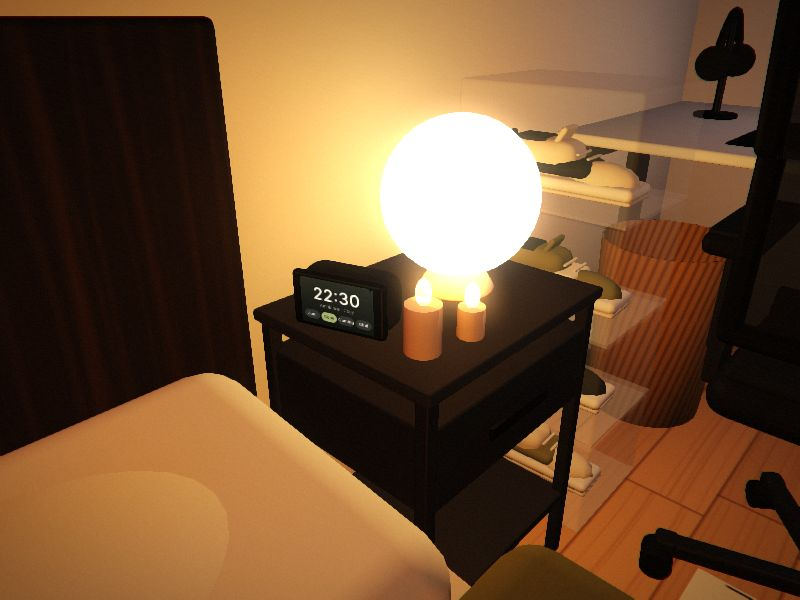
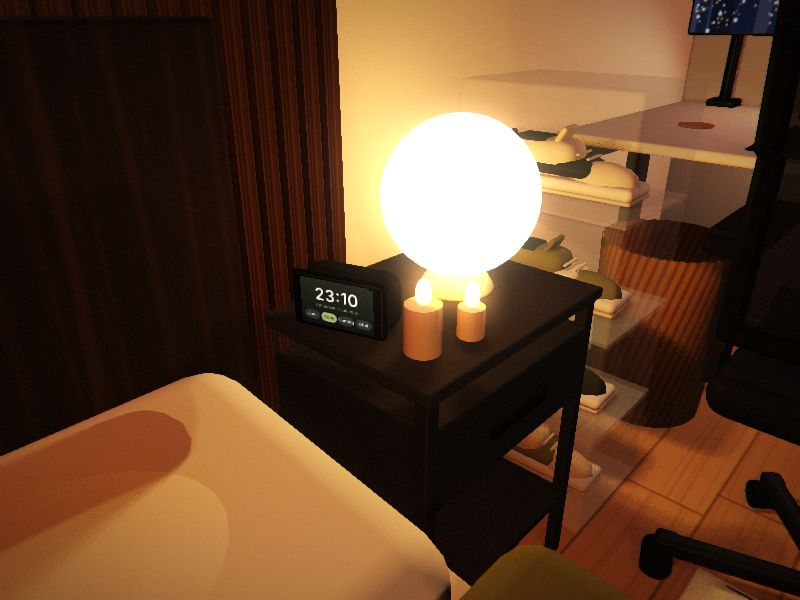
Séance 31 : l'écran de l'Echo Show affiche l'ambiance en cours (63,5 → 63,75/70)
Claude-Session: https://claude.ai/code/session_01SepMHyEogJJnegoMaCAg7f

diff --git a/index.html b/index.html
@@ -341,10 +341,14 @@ const frM=M(0x141414,{roughness:.35});[BC-58,BC,BC+58].forEach((zc,i)=>{RB(WX,WX
 // ---------- Echo Show 5 (3e gén.) sur la table de chevet : écran de contrôle des lumières ----------
 {const g=Grp(15,59,161,.3);const fab=M(0x2b2c2e,{roughness:.95}),gls=M(0x0b0b0c,{roughness:.15,metalness:.2});
  RB(-7.4,7.4,0,8.6,-3.6,2.4,2.4,fab,g,3);RB(-7.4,7.4,.2,8.6,2.2,3.7,.7,gls,g,2);
- const st=T(256,160,(c,w,h)=>{const gr=c.createLinearGradient(0,0,0,h);gr.addColorStop(0,'#20231b');gr.addColorStop(1,'#0d0e0b');c.fillStyle=gr;c.fillRect(0,0,w,h);
-  c.fillStyle='#F3EFE4';c.font='600 58px Inter, Arial, sans-serif';c.textAlign='center';c.fillText('22:30',w/2,72);c.font='16px Arial';c.fillStyle='#A9A594';c.fillText('Ambiance : Cosy',w/2,96);
-  const lab=['Jour','Cosy','Gaming','Ciné'];lab.forEach((t,i)=>{const x=10+i*61,on=i===1;c.fillStyle=on?'#A4AE6E':'rgba(255,255,255,.12)';c.beginPath();c.roundRect?c.roundRect(x,112,56,32,16):c.rect(x,112,56,32);c.fill();c.fillStyle=on?'#1b1d12':'#F3EFE4';c.font='600 15px Arial';c.fillText(t,x+28,133)})},1,1);
- const sm=new THREE.Mesh(new THREE.PlaneGeometry(11.6,7),MB(0xffffff,{map:st}));sm.position.set(0,4.5,3.75);g.add(sm);
+ // écran de l'Echo Show : heure + ambiance en cours (mis à jour par R.echoSet depuis les pages)
+ const EC={cosy:['23:10','Nuit cosy',1],jour:['14:20','Jour',0],coucher:['18:40','Coucher de soleil',0],soir:['21:30','Soir chaud',1],gaming:['22:00','Gaming',2],fete:['23:45','Fête',-1],cine:['21:00','Ciné',3]};
+ const drawEcho=(c,w,h,k)=>{const e=EC[k]||EC.cosy;const gr=c.createLinearGradient(0,0,0,h);gr.addColorStop(0,'#20231b');gr.addColorStop(1,'#0d0e0b');c.fillStyle=gr;c.fillRect(0,0,w,h);
+  c.fillStyle='#F3EFE4';c.font='600 58px Inter, Arial, sans-serif';c.textAlign='center';c.fillText(e[0],w/2,72);c.font='16px Arial';c.fillStyle='#A9A594';c.fillText('Ambiance : '+e[1],w/2,96);
+  ['Jour','Cosy','Gaming','Ciné'].forEach((t,i)=>{const x=10+i*61,on=i===e[2];c.fillStyle=on?'#A4AE6E':'rgba(255,255,255,.12)';c.beginPath();c.roundRect?c.roundRect(x,112,56,32,16):c.rect(x,112,56,32);c.fill();c.fillStyle=on?'#1b1d12':'#F3EFE4';c.font='600 15px Arial';c.fillText(t,x+28,133)})};
+ const st=T(256,160,(c,w,h)=>drawEcho(c,w,h,'cosy'),1,1);st.ver=st.ver||1;
+ R.echoSet=k=>{const cv=st.image;if(!cv||!cv.getContext)return;drawEcho(cv.getContext('2d'),cv.width,cv.height,k);st.ver=(st.ver||1)+1;st.needsUpdate=true};
+ const sm=new THREE.Mesh(new THREE.PlaneGeometry(11.6,7),MB(0xffffff,{map:st}));R.echoScreen=sm;sm.position.set(0,4.5,3.75);g.add(sm);
  const cam=S(5.4,7.9,3.72,.22,M(0x050505,{roughness:.1}),1,1,.4,g,8)}
 
 // ---------- sneaker wall: clear boxes + 3 floating shelves with Tapo L900-5 LED ----------
@@ -1035,13 +1039,13 @@ let mesOn=false;const MES=(window.MESURES||[]).map(m=>{const[a,b,c,d,e,f,n]=m;co
 function setMes(v){mesOn=v;MES.forEach(m=>{m.bar.visible=v;m.lab.visible=v})}
 window.__setMes=setMes;
 const dyn=new Set([...MES.map(m=>m.bar),...MES.map(m=>m.lab),vig,R.platter,R.label,labMesh,infMesh,...selE,menuMesh,...rays,...dots,...arcDots,ring,...ctrlParts,...R.shafts,...R.dust]);
-[...Object.values(R.G).flat().map(m=>m.material),...(R.strips||[]).map(o=>o.m.material),...Object.values(R.ambiPads).map(m=>m.material),R.screens.tv.material,R.screens.mon.material,...R.flames.map(m=>m.material),...R.cityLit.map(m=>m.material),...R.out.map(m=>m.material),
+[...Object.values(R.G).flat().map(m=>m.material),...(R.echoScreen?[R.echoScreen.material]:[]),...(R.strips||[]).map(o=>o.m.material),...Object.values(R.ambiPads).map(m=>m.material),R.screens.tv.material,R.screens.mon.material,...R.flames.map(m=>m.material),...R.cityLit.map(m=>m.material),...R.out.map(m=>m.material),
  R.sky.material,R.skyN.material,R.moon.material,R.moonHalo.material,R.tree.material,R.tree2.material,R.pend,R.arcBulb,R.nsShade,R.fado,R.dlBulb,...R.pcFans.map(m=>m.material),R.pcIn.material,R.ceil.material].forEach(m=>dyn.add(m));
 [R.sky,R.skyN,R.moon,R.moonHalo,R.tree,R.tree2,R.ceil].forEach(o=>dyn.add(o));
 const V=makeVRRenderer(gl,sc,dyn);const ambiUp=makeAmbi(R,THREE);window.__V=V;
 const MODES=[['cosy','Nuit cosy',()=>COSY],['jour','Jour',()=>DAY],['coucher','Coucher de soleil',()=>GOLD],['soir','Soir chaud',()=>EVE],['gaming','Gaming néon',()=>GAME],['fete','Fête',t=>FETE(t)],['cine','Ciné Ambilight',()=>CINE]];
 let mi=0,from=COSY,blendT=1,cur=COSY,el=0;
-function setMode(i,show){mi=(i+MODES.length)%MODES.length;if(typeof menu!=='undefined'&&menu.open){menu.draw();show=false}from=cur;blendT=0;document.querySelectorAll('[data-m]').forEach(b=>b.classList.toggle('on',+b.dataset.m===mi));if(show)setLabel(MODES[mi][1],'A : ambiance suivante · B : précédente')}
+function setMode(i,show){mi=(i+MODES.length)%MODES.length;if(R.echoSet)R.echoSet(MODES[mi][0]);if(typeof menu!=='undefined'&&menu.open){menu.draw();show=false}from=cur;blendT=0;document.querySelectorAll('[data-m]').forEach(b=>b.classList.toggle('on',+b.dataset.m===mi));if(show)setLabel(MODES[mi][1],'A : ambiance suivante · B : précédente')}
 document.querySelectorAll('[data-m]').forEach(b=>b.onclick=()=>{if(auto)setAuto(false);setMode(+b.dataset.m,false)});
 let auto=false,autoT=0;function setAuto(on){auto=on;autoT=0;const b=document.getElementById('auto');if(b){b.classList.toggle('on',on);b.textContent=on?'Arrêter le défilé':'Défilé de toutes les ambiances'}if(!menu.open)setLabel(on?'Défilé auto activé':'Défilé auto arrêté',on?'Une nouvelle ambiance toutes les 7 s':'Gâchette gauche : relancer');else menu.draw()}
 document.getElementById('auto').onclick=()=>setAuto(!auto);

diff --git a/source/app_vr.js b/source/app_vr.js
@@ -140,13 +140,13 @@ let mesOn=false;const MES=(window.MESURES||[]).map(m=>{const[a,b,c,d,e,f,n]=m;co
 function setMes(v){mesOn=v;MES.forEach(m=>{m.bar.visible=v;m.lab.visible=v})}
 window.__setMes=setMes;
 const dyn=new Set([...MES.map(m=>m.bar),...MES.map(m=>m.lab),vig,R.platter,R.label,labMesh,infMesh,...selE,menuMesh,...rays,...dots,...arcDots,ring,...ctrlParts,...R.shafts,...R.dust]);
-[...Object.values(R.G).flat().map(m=>m.material),...(R.strips||[]).map(o=>o.m.material),...Object.values(R.ambiPads).map(m=>m.material),R.screens.tv.material,R.screens.mon.material,...R.flames.map(m=>m.material),...R.cityLit.map(m=>m.material),...R.out.map(m=>m.material),
+[...Object.values(R.G).flat().map(m=>m.material),...(R.echoScreen?[R.echoScreen.material]:[]),...(R.strips||[]).map(o=>o.m.material),...Object.values(R.ambiPads).map(m=>m.material),R.screens.tv.material,R.screens.mon.material,...R.flames.map(m=>m.material),...R.cityLit.map(m=>m.material),...R.out.map(m=>m.material),
  R.sky.material,R.skyN.material,R.moon.material,R.moonHalo.material,R.tree.material,R.tree2.material,R.pend,R.arcBulb,R.nsShade,R.fado,R.dlBulb,...R.pcFans.map(m=>m.material),R.pcIn.material,R.ceil.material].forEach(m=>dyn.add(m));
 [R.sky,R.skyN,R.moon,R.moonHalo,R.tree,R.tree2,R.ceil].forEach(o=>dyn.add(o));
 const V=makeVRRenderer(gl,sc,dyn);const ambiUp=makeAmbi(R,THREE);window.__V=V;
 const MODES=[['cosy','Nuit cosy',()=>COSY],['jour','Jour',()=>DAY],['coucher','Coucher de soleil',()=>GOLD],['soir','Soir chaud',()=>EVE],['gaming','Gaming néon',()=>GAME],['fete','Fête',t=>FETE(t)],['cine','Ciné Ambilight',()=>CINE]];
 let mi=0,from=COSY,blendT=1,cur=COSY,el=0;
-function setMode(i,show){mi=(i+MODES.length)%MODES.length;if(typeof menu!=='undefined'&&menu.open){menu.draw();show=false}from=cur;blendT=0;document.querySelectorAll('[data-m]').forEach(b=>b.classList.toggle('on',+b.dataset.m===mi));if(show)setLabel(MODES[mi][1],'A : ambiance suivante · B : précédente')}
+function setMode(i,show){mi=(i+MODES.length)%MODES.length;if(R.echoSet)R.echoSet(MODES[mi][0]);if(typeof menu!=='undefined'&&menu.open){menu.draw();show=false}from=cur;blendT=0;document.querySelectorAll('[data-m]').forEach(b=>b.classList.toggle('on',+b.dataset.m===mi));if(show)setLabel(MODES[mi][1],'A : ambiance suivante · B : précédente')}
 document.querySelectorAll('[data-m]').forEach(b=>b.onclick=()=>{if(auto)setAuto(false);setMode(+b.dataset.m,false)});
 let auto=false,autoT=0;function setAuto(on){auto=on;autoT=0;const b=document.getElementById('auto');if(b){b.classList.toggle('on',on);b.textContent=on?'Arrêter le défilé':'Défilé de toutes les ambiances'}if(!menu.open)setLabel(on?'Défilé auto activé':'Défilé auto arrêté',on?'Une nouvelle ambiance toutes les 7 s':'Gâchette gauche : relancer');else menu.draw()}
 document.getElementById('auto').onclick=()=>setAuto(!auto);

diff --git a/source/room.js b/source/room.js
@@ -177,10 +177,14 @@ const frM=M(0x141414,{roughness:.35});[BC-58,BC,BC+58].forEach((zc,i)=>{RB(WX,WX
 // ---------- Echo Show 5 (3e gén.) sur la table de chevet : écran de contrôle des lumières ----------
 {const g=Grp(15,59,161,.3);const fab=M(0x2b2c2e,{roughness:.95}),gls=M(0x0b0b0c,{roughness:.15,metalness:.2});
  RB(-7.4,7.4,0,8.6,-3.6,2.4,2.4,fab,g,3);RB(-7.4,7.4,.2,8.6,2.2,3.7,.7,gls,g,2);
- const st=T(256,160,(c,w,h)=>{const gr=c.createLinearGradient(0,0,0,h);gr.addColorStop(0,'#20231b');gr.addColorStop(1,'#0d0e0b');c.fillStyle=gr;c.fillRect(0,0,w,h);
-  c.fillStyle='#F3EFE4';c.font='600 58px Inter, Arial, sans-serif';c.textAlign='center';c.fillText('22:30',w/2,72);c.font='16px Arial';c.fillStyle='#A9A594';c.fillText('Ambiance : Cosy',w/2,96);
-  const lab=['Jour','Cosy','Gaming','Ciné'];lab.forEach((t,i)=>{const x=10+i*61,on=i===1;c.fillStyle=on?'#A4AE6E':'rgba(255,255,255,.12)';c.beginPath();c.roundRect?c.roundRect(x,112,56,32,16):c.rect(x,112,56,32);c.fill();c.fillStyle=on?'#1b1d12':'#F3EFE4';c.font='600 15px Arial';c.fillText(t,x+28,133)})},1,1);
- const sm=new THREE.Mesh(new THREE.PlaneGeometry(11.6,7),MB(0xffffff,{map:st}));sm.position.set(0,4.5,3.75);g.add(sm);
+ // écran de l'Echo Show : heure + ambiance en cours (mis à jour par R.echoSet depuis les pages)
+ const EC={cosy:['23:10','Nuit cosy',1],jour:['14:20','Jour',0],coucher:['18:40','Coucher de soleil',0],soir:['21:30','Soir chaud',1],gaming:['22:00','Gaming',2],fete:['23:45','Fête',-1],cine:['21:00','Ciné',3]};
+ const drawEcho=(c,w,h,k)=>{const e=EC[k]||EC.cosy;const gr=c.createLinearGradient(0,0,0,h);gr.addColorStop(0,'#20231b');gr.addColorStop(1,'#0d0e0b');c.fillStyle=gr;c.fillRect(0,0,w,h);
+  c.fillStyle='#F3EFE4';c.font='600 58px Inter, Arial, sans-serif';c.textAlign='center';c.fillText(e[0],w/2,72);c.font='16px Arial';c.fillStyle='#A9A594';c.fillText('Ambiance : '+e[1],w/2,96);
+  ['Jour','Cosy','Gaming','Ciné'].forEach((t,i)=>{const x=10+i*61,on=i===e[2];c.fillStyle=on?'#A4AE6E':'rgba(255,255,255,.12)';c.beginPath();c.roundRect?c.roundRect(x,112,56,32,16):c.rect(x,112,56,32);c.fill();c.fillStyle=on?'#1b1d12':'#F3EFE4';c.font='600 15px Arial';c.fillText(t,x+28,133)})};
+ const st=T(256,160,(c,w,h)=>drawEcho(c,w,h,'cosy'),1,1);st.ver=st.ver||1;
+ R.echoSet=k=>{const cv=st.image;if(!cv||!cv.getContext)return;drawEcho(cv.getContext('2d'),cv.width,cv.height,k);st.ver=(st.ver||1)+1;st.needsUpdate=true};
+ const sm=new THREE.Mesh(new THREE.PlaneGeometry(11.6,7),MB(0xffffff,{map:st}));R.echoScreen=sm;sm.position.set(0,4.5,3.75);g.add(sm);
  const cam=S(5.4,7.9,3.72,.22,M(0x050505,{roughness:.1}),1,1,.4,g,8)}
 
 // ---------- sneaker wall: clear boxes + 3 floating shelves with Tapo L900-5 LED ----------

diff --git a/source/app_gl.js b/source/app_gl.js
@@ -128,7 +128,7 @@ cv.addEventListener('wheel',e=>{e.preventDefault();sph.r=Math.max(25,Math.min(11
 const MODES={cosy:()=>COSY,jour:()=>DAY,coucher:()=>GOLD,soir:()=>EVE,gaming:()=>GAME,fete:t=>FETE(t),cine:()=>CINE};
 let mode='cosy',from=COSY,blendT=1,tour=null,fly=null,cur=COSY,el=0;
 const cap=document.getElementById('cap'),capT=document.getElementById('capT'),capS=document.getElementById('capS'),capL=document.getElementById('capL');
-function setMode(m){from=cur;mode=m;blendT=0;document.querySelectorAll('[data-mode]').forEach(b=>b.classList.toggle('on',b.dataset.mode===m))}
+function setMode(m){from=cur;mode=m;blendT=0;if(R.echoSet)R.echoSet(m);document.querySelectorAll('[data-mode]').forEach(b=>b.classList.toggle('on',b.dataset.mode===m))}
 let auto=false,autoT=0;const KEYS=['cosy','jour','coucher','soir','gaming','fete','cine'];const autoB=document.getElementById('auto');function setAuto(on){auto=on;autoT=0;autoB.classList.toggle('on',on);autoB.textContent=on?'Arrêter le défilé':'Défilé de toutes les ambiances'}autoB.onclick=()=>{stopTour();setAuto(!auto);if(auto)setMode(KEYS[(KEYS.indexOf(mode)+1)%7])};
 document.querySelectorAll('[data-mode]').forEach(b=>b.onclick=()=>{stopTour();setAuto(false);setMode(b.dataset.mode)});
 const VIEWS={ambi:[[35,140,259],[355,125,259]],fenetre:[[310,155,70],[150,120,330]],ens:[[560,470,640],[180,70,180]],lit:[[300,150,120],[60,60,268]],tv:[[200,135,240],[352,80,259]],vinyle:[[230,130,152],[350,72,138]],bureau:[[160,145,195],[75,92,30]],dessus:[[181,640,183],[180,0,180]]};

diff --git a/evolution/sessions.js b/evolution/sessions.js
@@ -3,6 +3,23 @@
 window.SESSIONS = [
   {
     date: "2026-11-21",
+    titre: "Séance 31 — l'écran de l'Echo Show suit l'ambiance",
+    avant: 63.5, apres: 63.75,
+    scores: { meubles: [9.75, 9.75], eclairage: [10, 10], coherence: [9, 9.25], liste: [9.5, 9.5], vr: [8.75, 8.75], plan: [8.75, 8.75], video: [8, 8] },
+    changements: [
+      "L'écran de l'Echo Show 5 affiche l'ambiance en cours (Nuit cosy, Jour, Gaming, Ciné…) avec le bon bouton allumé, comme une vraie routine Alexa",
+      "L'heure change avec l'ambiance : 14:20 le jour, 22:00 en gaming, 23:10 en nuit cosy…",
+      "Marche dans le plan 3D et dans la VR (quand tu changes d'ambiance avec le menu ou les boutons A/B)"
+    ],
+    images: [
+      ["echo-cosy", "Nuit cosy"],
+      ["echo-gaming", "Gaming"],
+      ["echo-jour", "Jour"]
+    ],
+    ensuite: "Reflets légers des LED sur le parquet ; remplacer le lampadaire arc épuisé (à valider avec Enzo)."
+  },
+  {
+    date: "2026-11-21",
     titre: "Séance 30 — effets de lumière : rubans LED visibles, lumière des écrans",
     avant: 63.25, apres: 63.5,
     scores: { meubles: [9.75, 9.75], eclairage: [10, 10], coherence: [9, 9], liste: [9.5, 9.5], vr: [8.75, 8.75], plan: [8.5, 8.75], video: [8, 8] },

diff --git a/BACKLOG.md b/BACKLOG.md
@@ -16,17 +16,16 @@
 - Remplacer le lampadaire arc OMBRAGE (épuisé) par un modèle noir/marbre E27 en stock.
 - Vérifier à la réception que les spots des plantes se rallument seuls quand la prise Tapo remet le courant.
 - Revérifier chaque semaine : carte graphique, RAM, SSD, écran, carte mère (offre jusqu'au 30/11).
-- Remplacer le ruban LED TV par un kit Ambilight à caméra (si l'utilisateur valide).
 - Confirmer le prix de la barre de son Ultimea Apollo S40.
 
 ## VR
-- Écran de l'Echo Show qui affiche l'ambiance en cours dans le plan 3D et la VR.
 - Tester sur le vrai Quest 2 et noter les images/s affichées dans le menu (demander à Enzo).
 
 ## Vidéo
 - Vidéo : refaire la visite avec les fiches produit et la chaise Sihoo dans toutes les scènes.
 
 ## À demander à Enzo
+- Modèle d'iPhone pour choisir le chargeur sans fil Qi2/MagSafe (table de chevet).
+- Mur en lattes derrière le lit : le garder (il est seulement dans le plan 3D, pas dans la liste) ?
 - Offre carte mère + watercooling offert valable jusqu'au 30/11 : commander avant ?
-- Périphériques proposés (K70 Core TKL, G305, tapis 90x40) : ok ou autres modèles ?
 - Emplacement des étagères à pochettes MOSSLANDA, des supports vinyles muraux et du « Now Playing ».

diff --git a/JOURNAL.md b/JOURNAL.md
@@ -227,3 +227,7 @@ Vues de contrôle fixes (tools/preview.py) :
 - Rubans LED visibles : `R.strips` (barres MB) sous le lit (3 côtés) et sous les 3 étagères à sneakers ; couleur = couleur G de l'ambiance × gain (2,2–2,4), mise à jour dans `apply()` de app_gl et app_vr (matériaux ajoutés à la liste dynamique VR).
 - Lumière d'écran `mon` bleutée (0x9fb6ff, couleur de l'image) ; GAME : mon .9 → .5 et lumière d'étagère violette pour garder le néon.
 - Vues de contrôle : aucune régression. VR : 0 erreur. Scores : plan 8,5 → 8,75 → **63,25 → 63,5/70**.
+
+## 2026-11-21 — Séance 31 : écran de l'Echo Show qui suit l'ambiance
+- `R.echoSet(k)` redessine le canvas de l'écran (heure + « Ambiance : … » + bouton actif) et incrémente `ver` ; appelé par `setMode` dans app_gl et app_vr ; matériau ajouté à la liste dynamique VR.
+- VR : 0 erreur. Scores : cohérence 9 → 9,25 → **63,5 → 63,75/70**.
